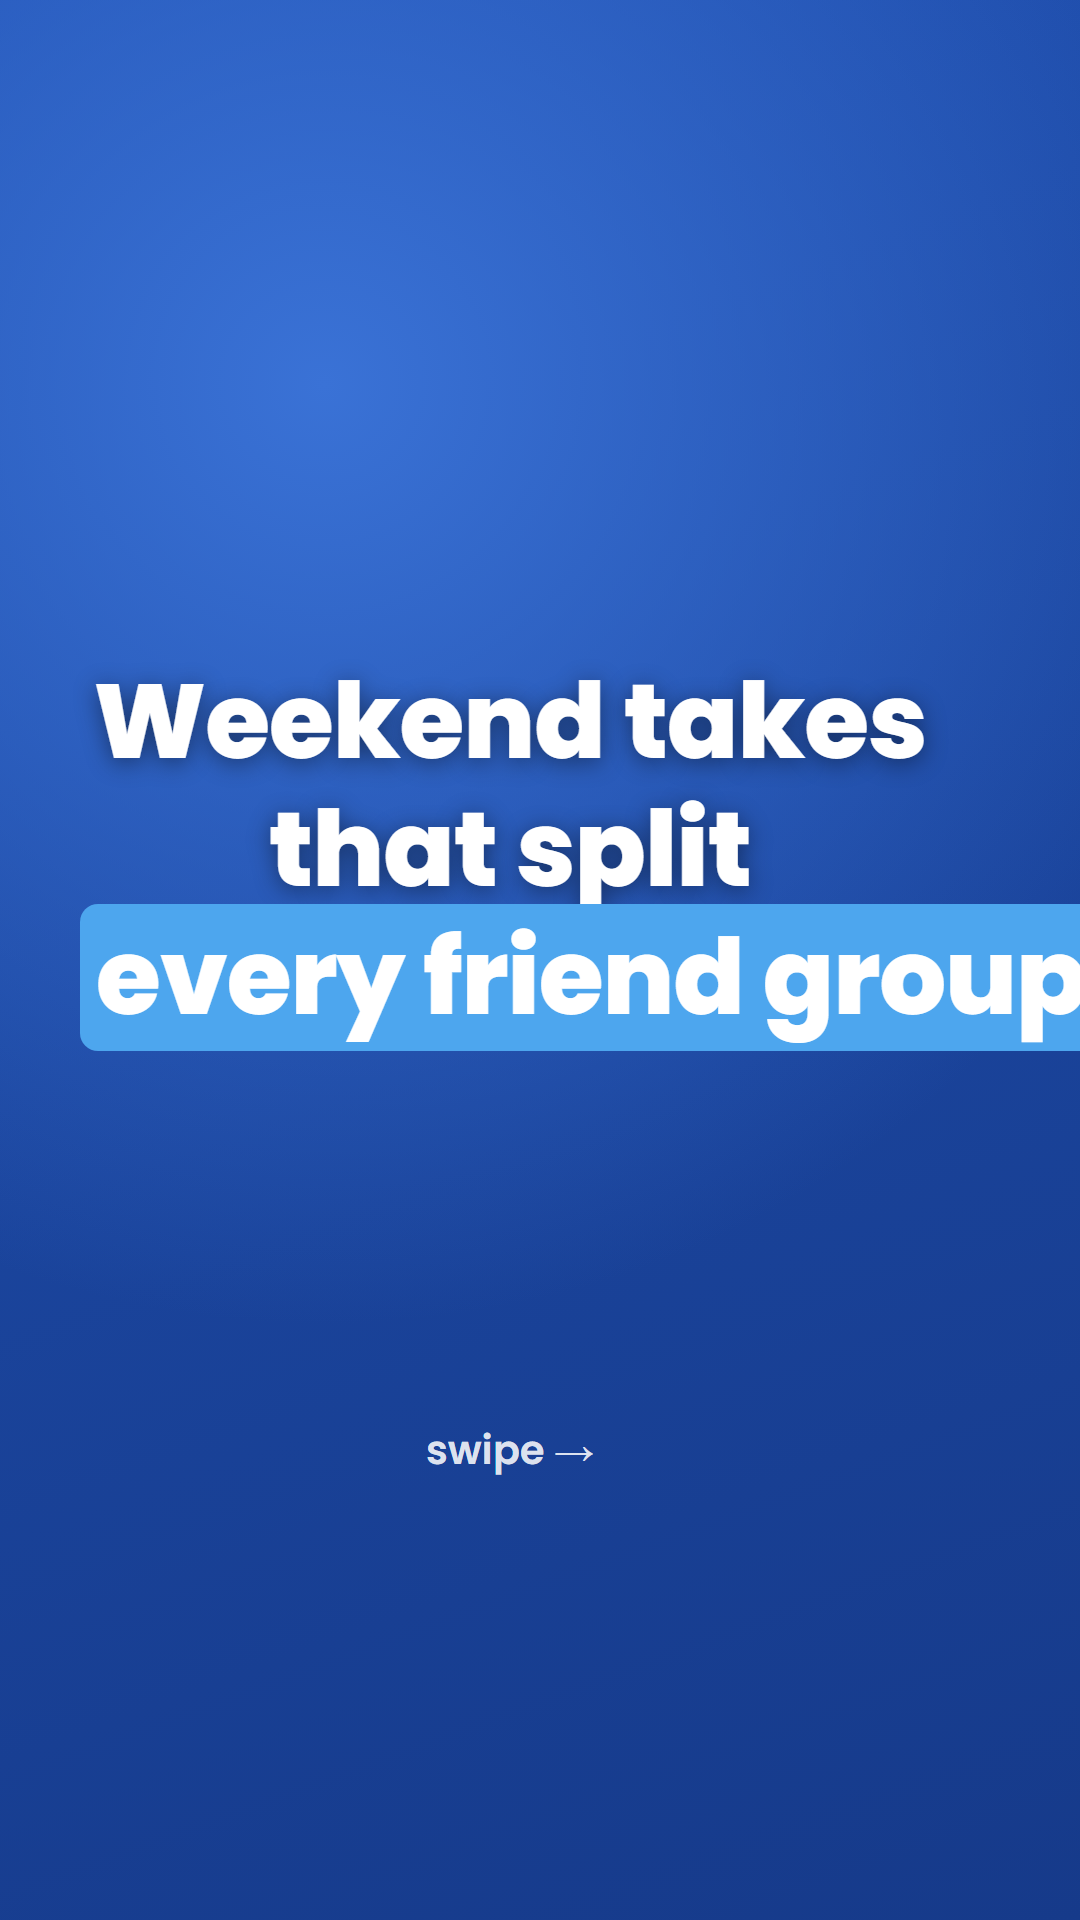
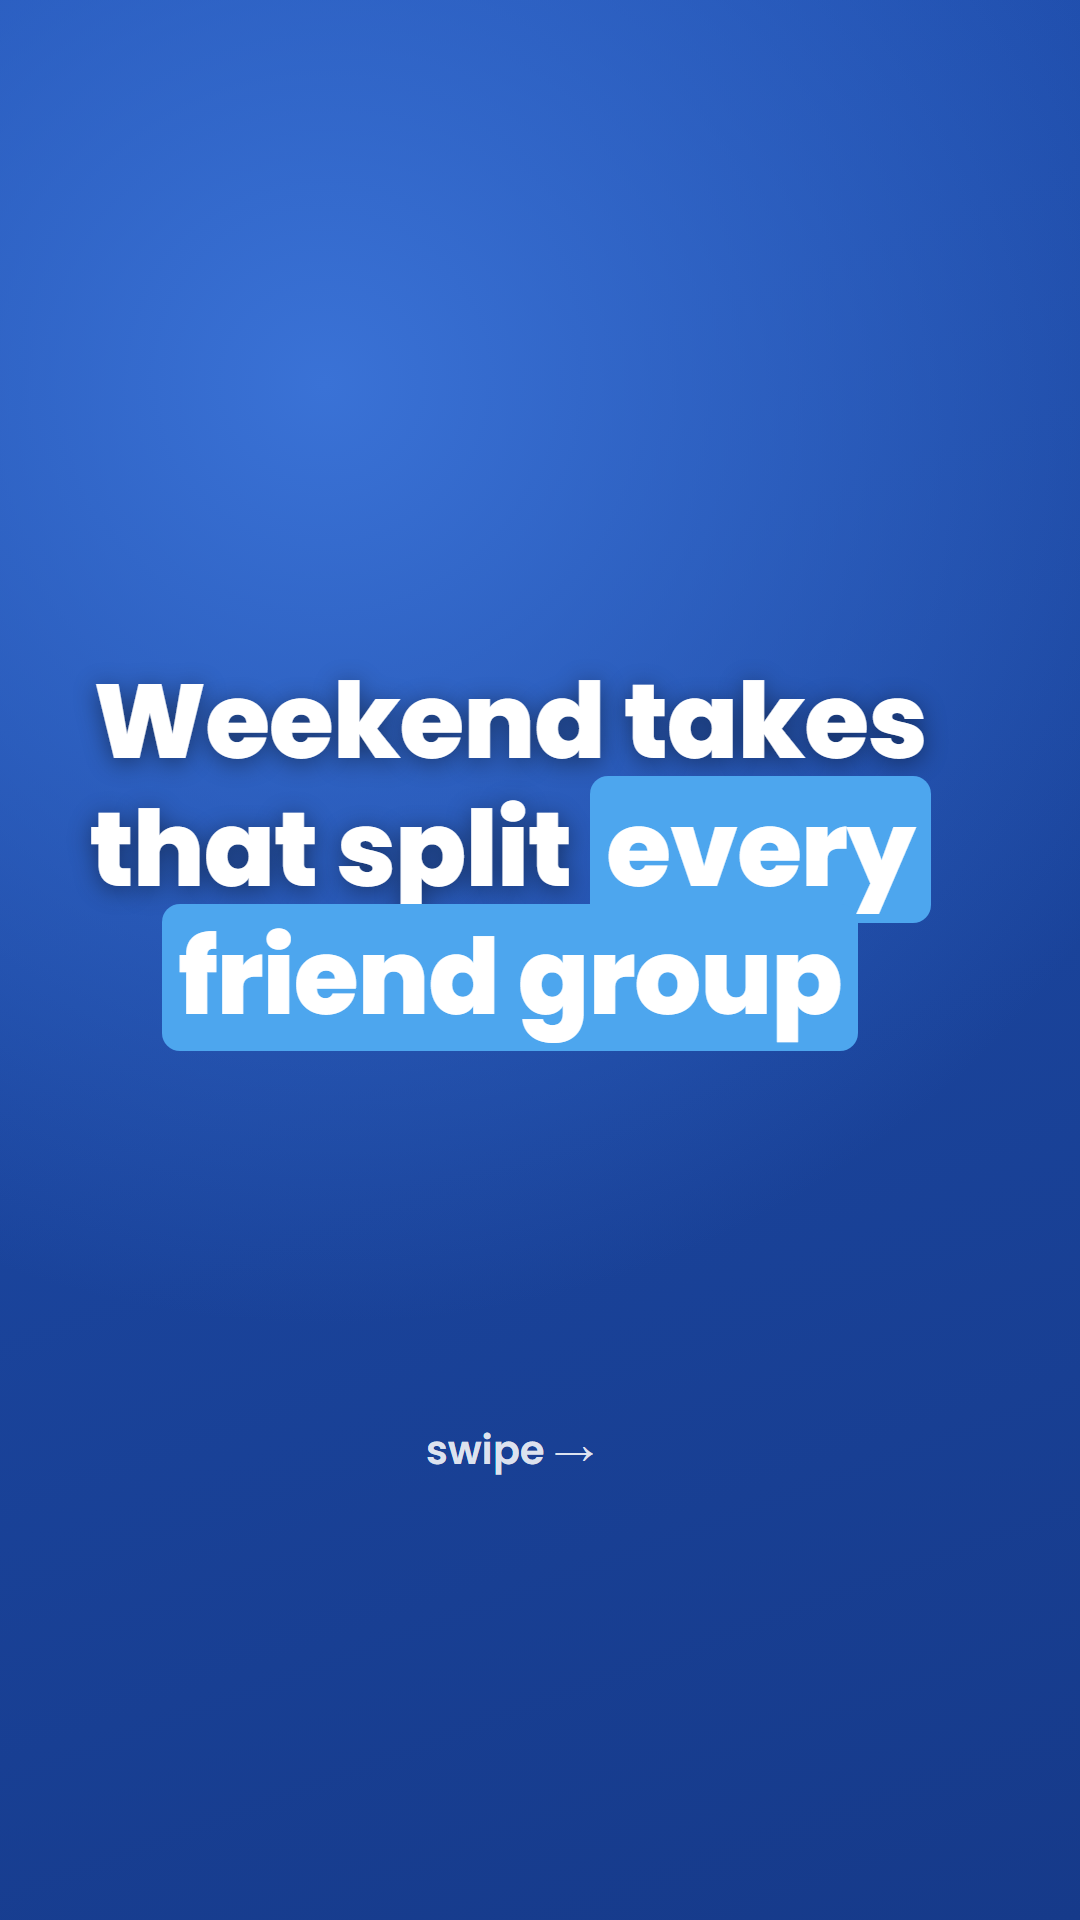
Fix hook highlight overflow: shrink-to-fit fallback, one-line only for short highlights; re-render affected slides

Changed region(s): [[0.0611, 0.4062, 1.0, 0.5625]]

diff --git a/channels/tiktok-slideshows/src/render.ts b/channels/tiktok-slideshows/src/render.ts
@@ -27,6 +27,17 @@ export async function renderSpecs(specs: Spec[]): Promise<string[]> {
       for (const [i, slide] of spec.slides.entries()) {
         await page.setContent(slideHtml(slide, spec.layout, i), { waitUntil: "load" });
         await page.evaluate(() => document.fonts.ready);
+        // Shrink any text block whose content is wider than its box
+        // (e.g. a long highlight kept on one line) until it fits.
+        await page.evaluate(() => {
+          for (const el of document.querySelectorAll<HTMLElement>("h1, h2, .card p, .bubble p")) {
+            let size = parseFloat(getComputedStyle(el).fontSize);
+            for (let i = 0; i < 30 && el.scrollWidth > el.clientWidth + 1; i++) {
+              size -= 3;
+              el.style.fontSize = `${size}px`;
+            }
+          }
+        });
         const file = resolve(dir, `slide_${String(i + 1).padStart(2, "0")}.png`);
         await page.screenshot({ path: file });
       }

diff --git a/channels/tiktok-slideshows/templates/slides.ts b/channels/tiktok-slideshows/templates/slides.ts
@@ -95,7 +95,7 @@ function highlighted(text: string, highlight?: string): string {
   const safe = esc(text);
   if (!highlight || !text.includes(highlight)) return safe;
   // Short highlights stay on one line so the pill doesn't split.
-  const nowrap = highlight.length <= 18 ? ' style="white-space:nowrap"' : "";
+  const nowrap = highlight.length <= 12 ? ' style="white-space:nowrap"' : "";
   return safe.replace(esc(highlight), `<span class="hl"${nowrap}>${esc(highlight)}</span>`);
 }
 
